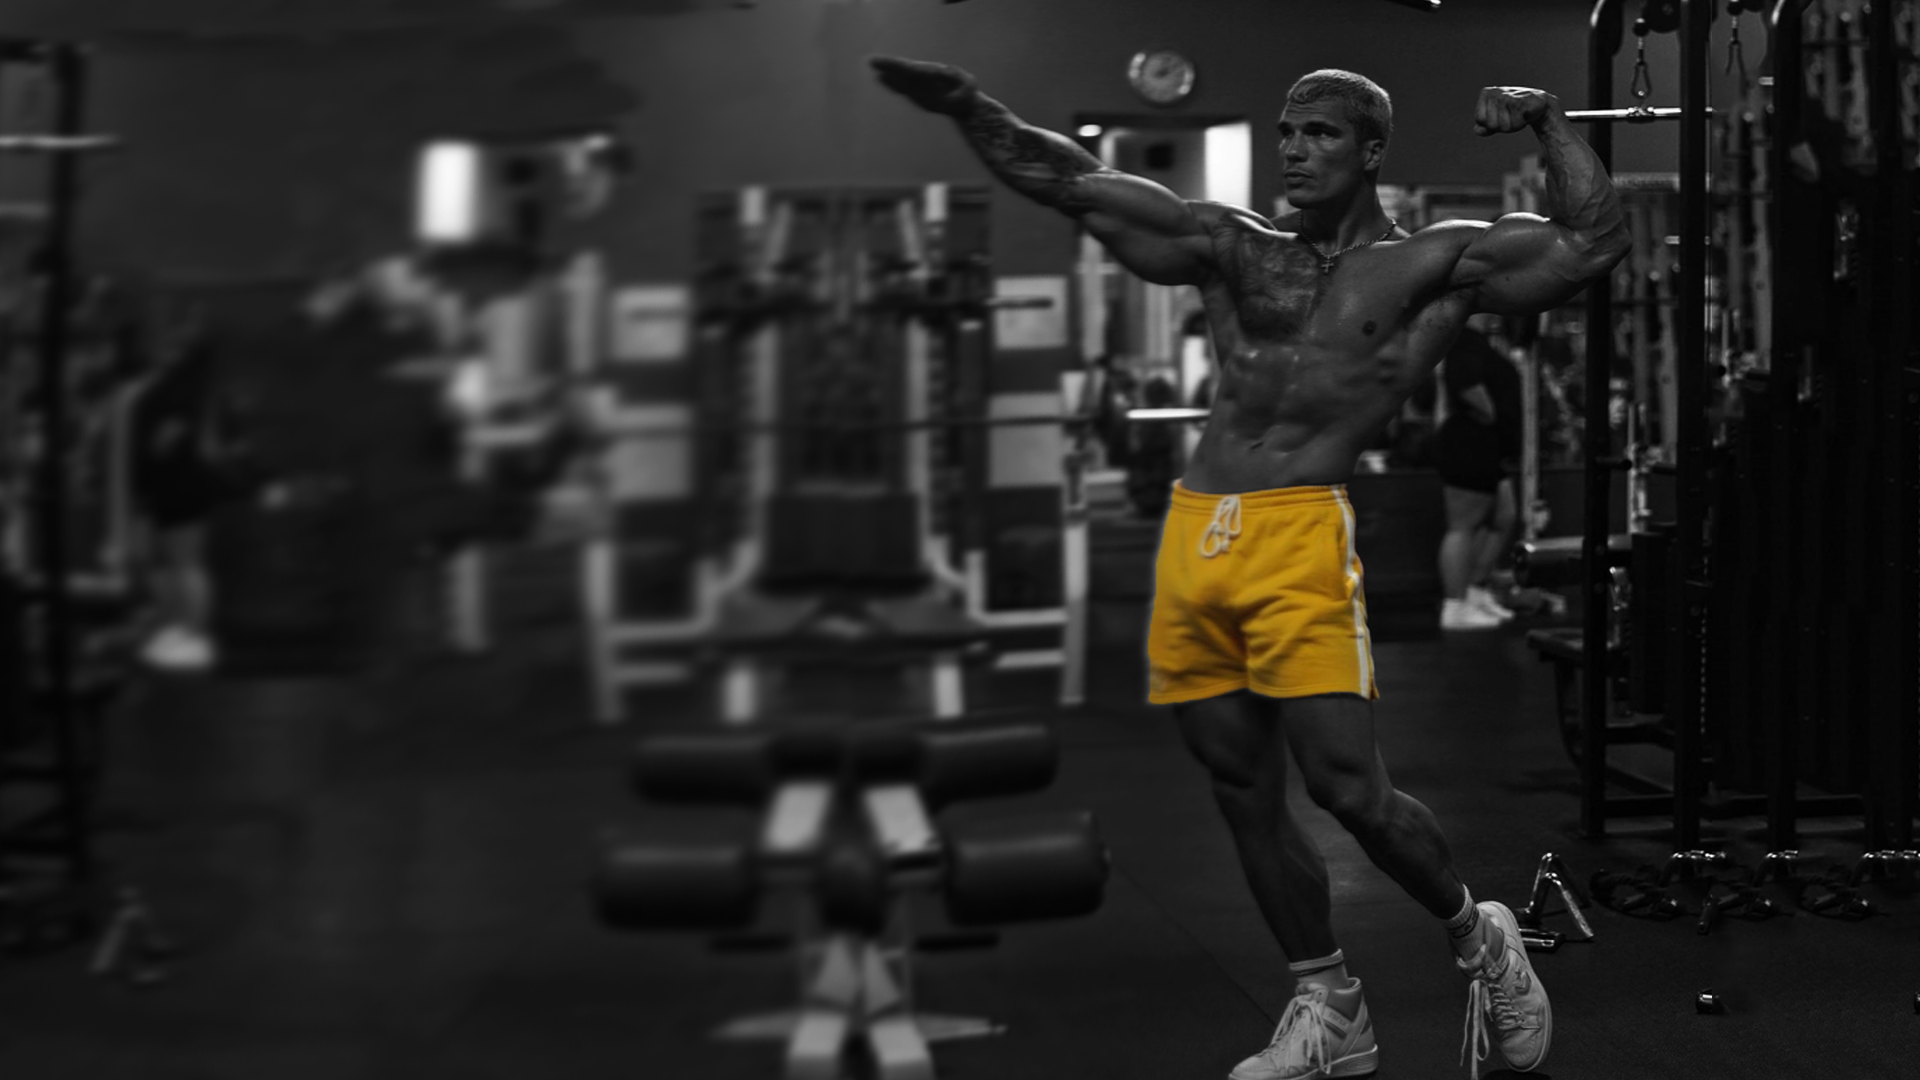
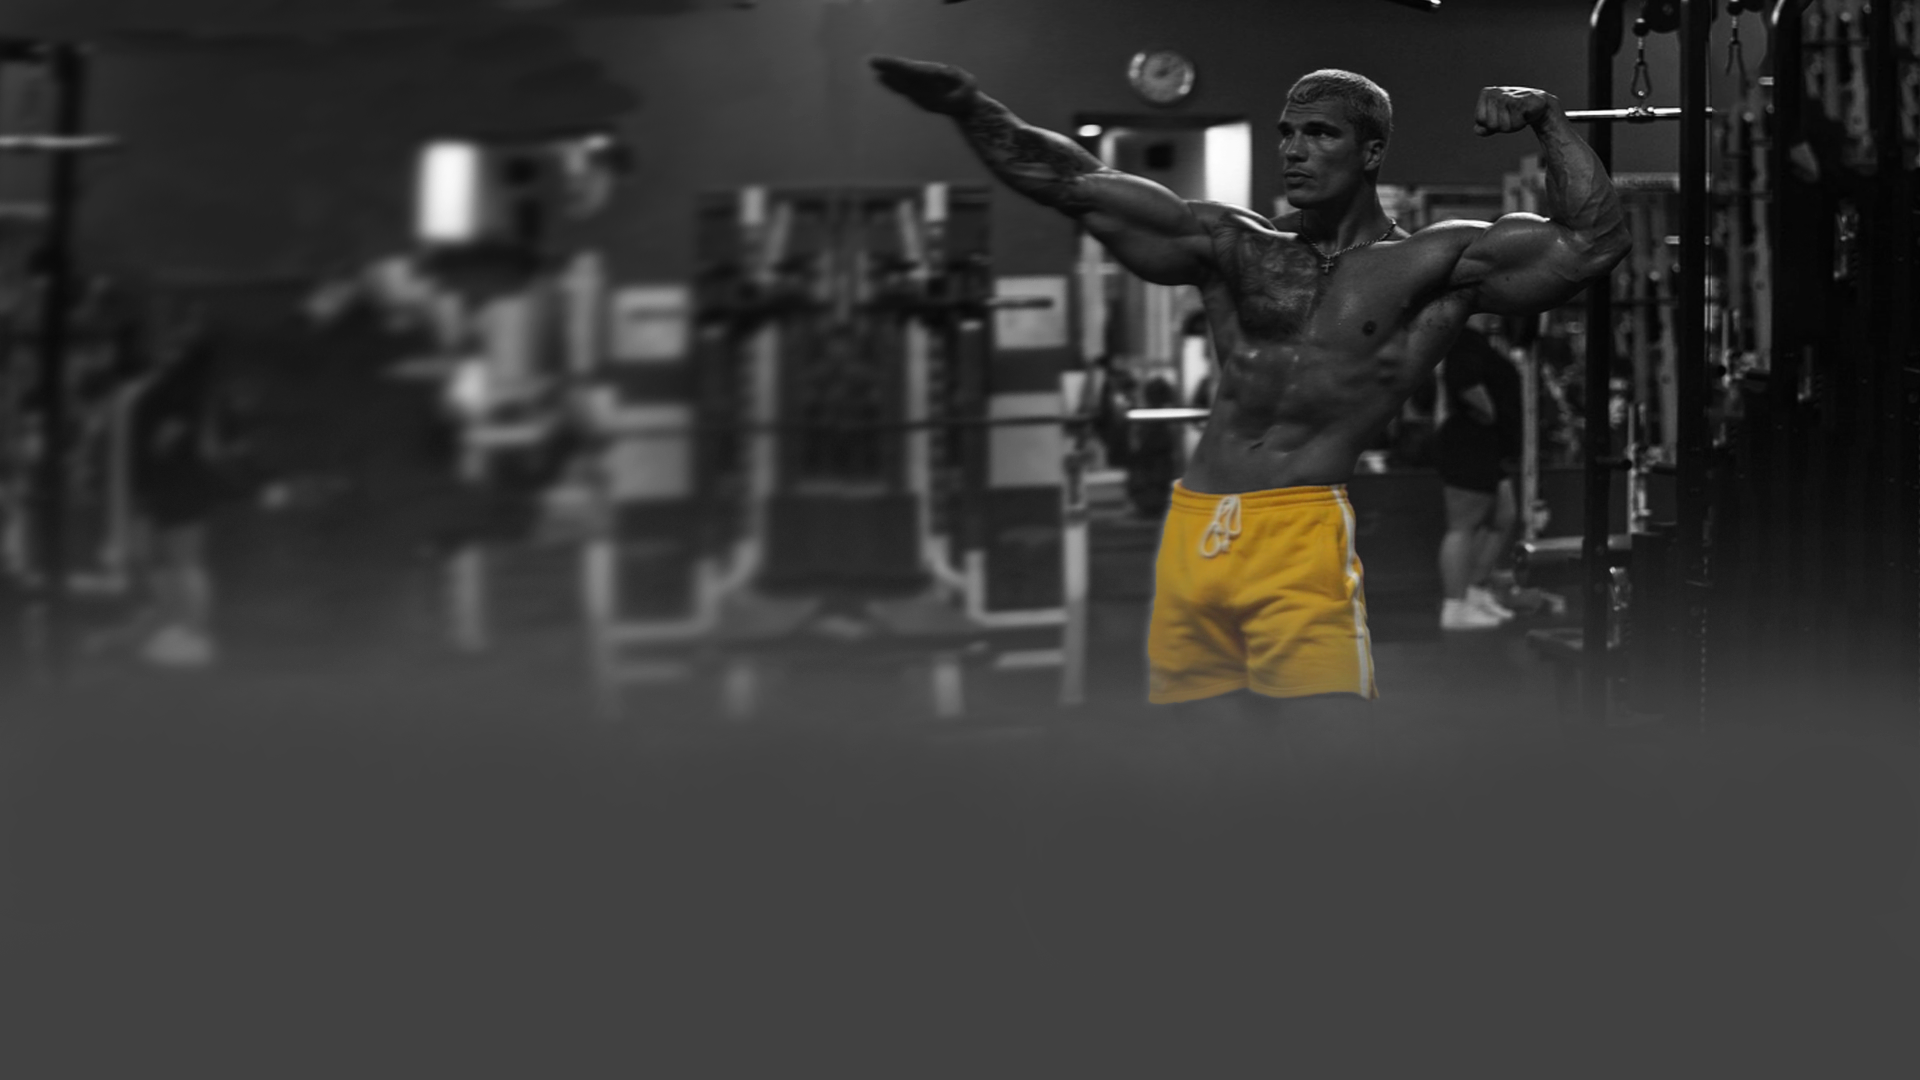
corrections
si

diff --git a/css/style.css b/css/style.css
@@ -113,6 +113,7 @@ header nav ul li a:hover{
 	margin-bottom: 15px;
 	font-weight: bold;
 	text-align: center;
+	text-shadow: 2px 2px 2px black;
 }
 #main h1{
 	color: var(--primary);
@@ -138,107 +139,51 @@ header nav ul li a:hover{
 	color: black;
 	transform: scale(1.02,1.02);
 }
-#empty{
-	margin-top: 264px;
-	width: 100%;
-}
-#offer{
-	background-color:var(--bckgrd);
-	display: flex;
-	align-items: center;
-	justify-content: center;
-	height: 600px;
-	flex-direction: column;
-}
 h2{
 	text-align: center;
 	justify-content: center;
 	margin-top: 20px;
 	margin-bottom: 20px;
 	font-size: 45px;
-	/* background-color: var(--second); */
 	width: max-content;
 	margin: 0px auto;
 }
-.main-results{
+#empty{
+	margin-top: 264px;
 	width: 100%;
-	height: 700px;
-	background-color: var(--bckgrd);
-	display: flex;
-	flex-direction: column;
 }
-.results{
-	width: 70%;
-	height: 700px;
-	margin: 0px auto;
-	/* background-color: var(--bckgrd); */
+#offer{
+	/* background-color:var(--bckgrd); */
 	display: flex;
-	justify-content: space-around;
 	align-items: center;
-}
-.result{
-	width: 28%;
-	height: 550px;
-	background-color:var(--second);
-	display: flex;
+	height: 730px;
 	flex-direction: column;
-	justify-content: space-evenly;
-	border-radius: 30px 10px;
-	box-shadow: 0px 0px 10px;
-	transition: 0.5s all;
-}
-.progress-img{
-	width: 100%;
-	height: 300px;
-	background-repeat: no-repeat;
-	background-size: 380px;
-	border-radius: 10px 30px;
-	box-shadow: 0px 0px 2px;
-}
-.result:hover{
-	transform: scale(1.14);
-}
-.progress-text p{
-	text-align: center;
-	font-size: 21px;
-	margin: 12px 40px;
-}
-.result1 .progress-img{
-	background-image: url(../assets/progress1.jpg);
-}
-.result2 .progress-img{
-	background-image: url(../assets/progress2.jpg);
-}
-.result3 .progress-img{
-	background-image: url(../assets/progress3.jpg);
 }
 .offer-title{
-	margin-top: 11px;
-	width: 70%;
+	margin: 80px 0px 40px 0px;
+	width: 76%;
 	display: flex;
 	flex-direction: column;
-	padding: 20px 15px;
+	padding: 20px 0px;
 	align-items: center;
 	background-color: rgba(148, 148, 148, 0.722);
-	border-radius: 160px;
+	border-radius: 50px;
 	box-shadow: 6px 3px 7px 0 rgba(0,0,0,0.7);
 }
 .offer-title > p{
-	width: 90%;
+	width: 93%;
 	font-size: 26px;
 	font-weight: bold;
 	text-align: center;
-	/* background-color: var(--second); */
 	border-radius: 40px;
-	padding: 0px 20px;
 	text-shadow: 2px 2px 1px rgb(165, 165, 165);
 }
 #offers{
-	width: 80%;
+	width: 76%;
 	height: 450px;
 	display: flex;
 	align-items: center;
-	justify-content: space-around;
+	justify-content: space-between;
 }
 .offer{
 	display: flex;
@@ -288,7 +233,6 @@ h2{
 	align-items: center;
 	justify-content: center;
 }
-
 .offer-text a{
 	color:black;
 	width: fit-content;
@@ -306,22 +250,84 @@ h2{
 	cursor: pointer;
 	 
 }
+.main-results > h2{
+	margin-top: 50px;
+}
+.main-results{
+	width: 100%;
+	height: 730px;
+	/* background-color: var(--bckgrd); */
+	display: flex;
+	flex-direction: column;
+	align-items: center;
+	justify-content: space-between;
+}
+.results{
+	width: 70%;
+	height: 550px;
+	margin: 0px auto;
+	/* background-color: var(--bckgrd); */
+	display: flex;
+	justify-content: space-between;
+	align-items: center;
+}
+.result{
+	width: 28%;
+	height: 550px;
+	background-color:var(--second);
+	display: flex;
+	flex-direction: column;
+	justify-content:start;
+	border-radius: 60px 40px;
+	box-shadow: 0px 0px 10px;
+	transition: 0.5s all;
+}
+.progress-img{
+	width: 100%;
+	height: 300px;
+	background-repeat: no-repeat;
+	background-size: 380px;
+	border-radius: 60px 40px 0px 0px;
+	box-shadow: 0px 0px 2px;
+}
+.result:hover{
+	transform: scale(1.14);
+}
+.progress-text p{
+	margin-top: 65px;
+	padding: 0px 23px;
+	font-size: 21px;
+	text-align: center;
+}
+.result1 .progress-img{
+	background-image: url(../assets/progress1.jpg);
+}
+.result2 .progress-img{
+	background-image: url(../assets/progress2.jpg);
+}
+.result3 .progress-img{
+	background-image: url(../assets/progress3.jpg);
+}
 #plans{
 	width: 100%;
 	display: flex;
 	flex-direction: column;
 	align-items: center;
-	background-color: var(--bckgrd);
-	height: 750px;
-	justify-content: center;
+	/* background-color: var(--bckgrd); */
+	height: 900px;
+	justify-content: space-between;
+	margin-bottom: 60px;
 }
 #plans h2{
-	margin-bottom: 20px;
+	margin-top: 80px;
 }
 #plans-wrap{
 	width: 70%;
 	flex-direction: column;
 	align-items: center;
+	height: 77%;
+	justify-content: space-between;
+	display: flex;
 }
 .plan{
 	display: flex;
@@ -377,6 +383,7 @@ h2{
 	display: flex;
 	flex-direction: column;
 	justify-content: space-evenly;
+	padding-top: 30px;
 }
 .contact-wrap{
 	width: 57%;
@@ -520,9 +527,7 @@ footer nav{
 	flex-direction: column;
 	align-items: center;
 }
-.footer-block P{
-	margin-top:11px;
-}
+
 
 /* gallery */
 

diff --git a/index.html b/index.html
@@ -37,6 +37,8 @@
 				</div>
 			</div>
 		</div>
+		<hr/>
+
 		<div id="offer">
 			<div class="offer-title">
 				<h2>What we offer</h2>
@@ -192,9 +194,10 @@
 					</nav>
 				</div>
 				<div class="footer-block">
+					<p><i class="fa-solid fa-location-dot"></i>&nbsp;Worldwide company</p>
 					<p><i class="fa-solid fa-phone"></i>&nbsp;+1 323 303 2060</p>
 					<p><i class="fa-solid fa-envelope"></i></i>&nbsp;jimjim@gmail.com</p>
-					<p>&copy; JIM All rights reserved.</p>
+					<p>&copy; JIM</p>
 				</div>
 				<div class="footer-links">
 					<ul class="link-wrap">

diff --git a/gallery.html b/gallery.html
@@ -66,9 +66,10 @@
 					</nav>
 				</div>
 				<div class="footer-block">
+					<p><i class="fa-solid fa-location-dot"></i>&nbsp;Worldwide company</p>
 					<p><i class="fa-solid fa-phone"></i>&nbsp;+1 323 303 2060</p>
 					<p><i class="fa-solid fa-envelope"></i></i>&nbsp;jimjim@gmail.com</p>
-					<p>&copy; JIM All rights reserved.</p>
+					<p>&copy; JIM </p>
 				</div>
 				<div class="footer-links">
 					<ul class="link-wrap">

diff --git a/about.html b/about.html
@@ -63,9 +63,10 @@
 					</nav>
 				</div>
 				<div class="footer-block">
+					<p><i class="fa-solid fa-location-dot"></i>&nbsp;Worldwide company</p>
 					<p><i class="fa-solid fa-phone"></i>&nbsp;+1 323 303 2060</p>
 					<p><i class="fa-solid fa-envelope"></i></i>&nbsp;jimjim@gmail.com</p>
-					<p>&copy; JIM All rights reserved.</p>
+					<p>&copy; JIM</p>
 				</div>
 				<div class="footer-links">
 					<ul class="link-wrap">
